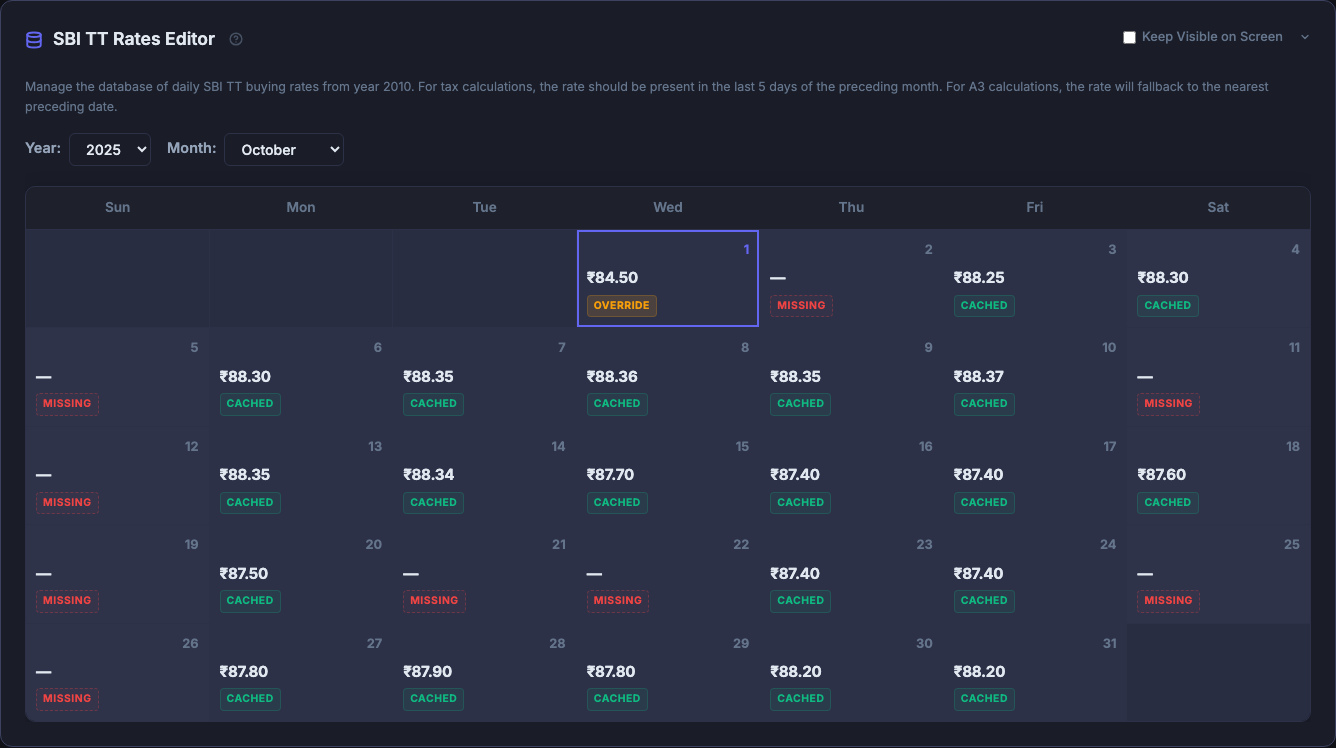
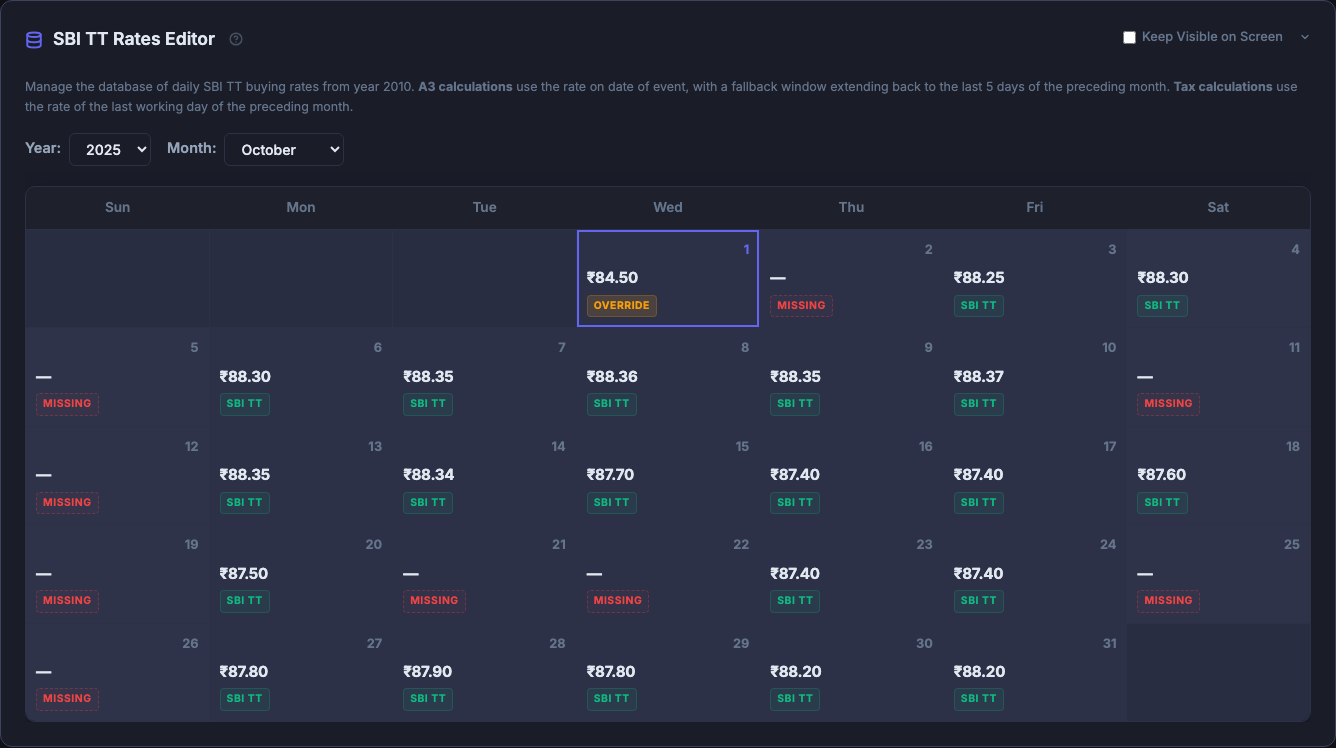
docs: update README and refresh screenshots

diff --git a/README.md b/README.md
@@ -99,7 +99,7 @@ python3 app.py
 - **Technical References**:
   - [Rule 115 / 206 in Income Tax Rules](static/docs/Income_Tax_Rules_Rule_115_206.pdf) — Rule for conversion of income into Rupees.
   - [Guide to Fill FSI, TR, and FA Schedule in ITR](static/docs/Guide_to_Fill_FSI_TR_FA_Schedule.pdf) — Official guide from the Income Tax Department.
-- **Base rates (pre-2020)**: Shipped with a built-in, verified database of 120 base rates extracted directly from the official decade-long SBI TT buying rate data (2010–2019) (shipped in `static/data/`, the original PDF itself is not shipped with the app).
+- **Base rates (pre-2020)**: Shipped with a built-in, verified database of 120 base rates extracted directly from the official decade-long SBI TT buying rate data (2010–2019).
 - **SBI TT Rates Calendar Editor**: Populate and edit daily rates for any month/year since 2010 in a modern Sunday-aligned calendar grid. Inline edits from the calendar or report table update the same active database cache.
 - **Fetch Choices (Overwrite vs. Merge)**: Select between *Overwrite All* (updates active database including custom edits on conflicting dates) and *Only Add Missing* (merges fetched rates while fully preserving your manual overrides).
 - **Import & Export**: Backup and restore your customized rates database as JSON using native, secure cross-platform dialogs on both Windows and macOS.
